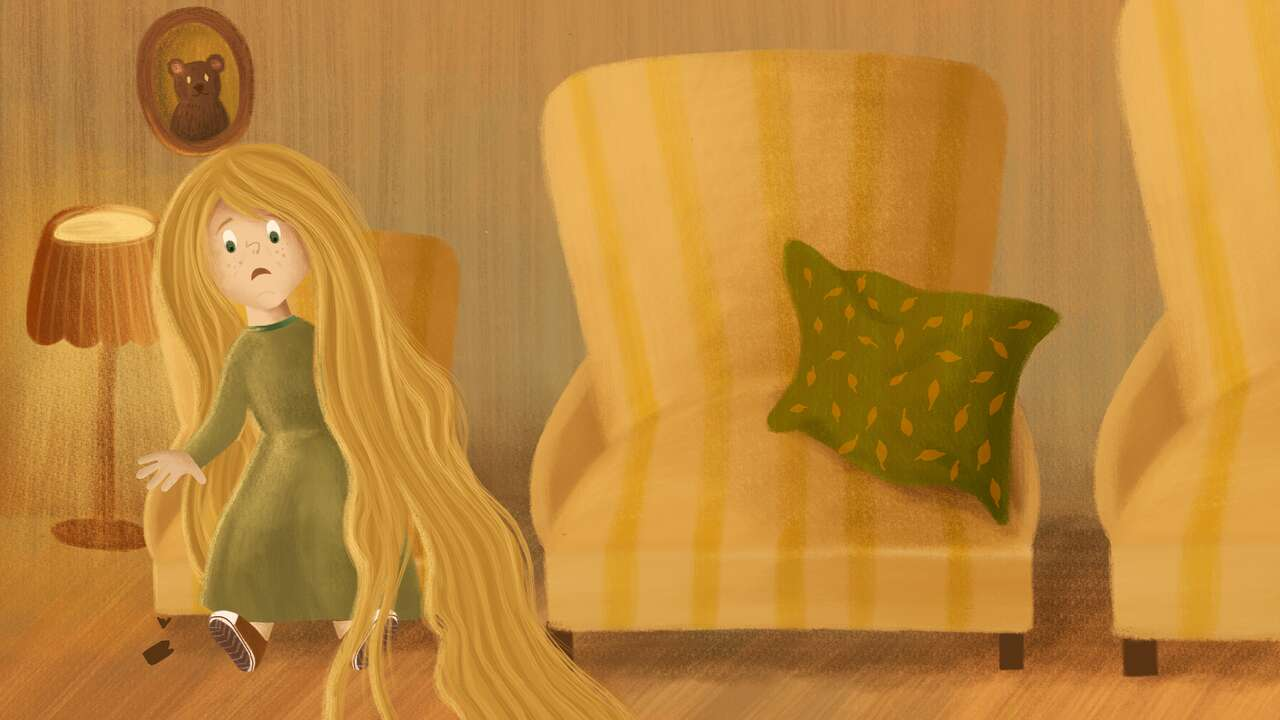
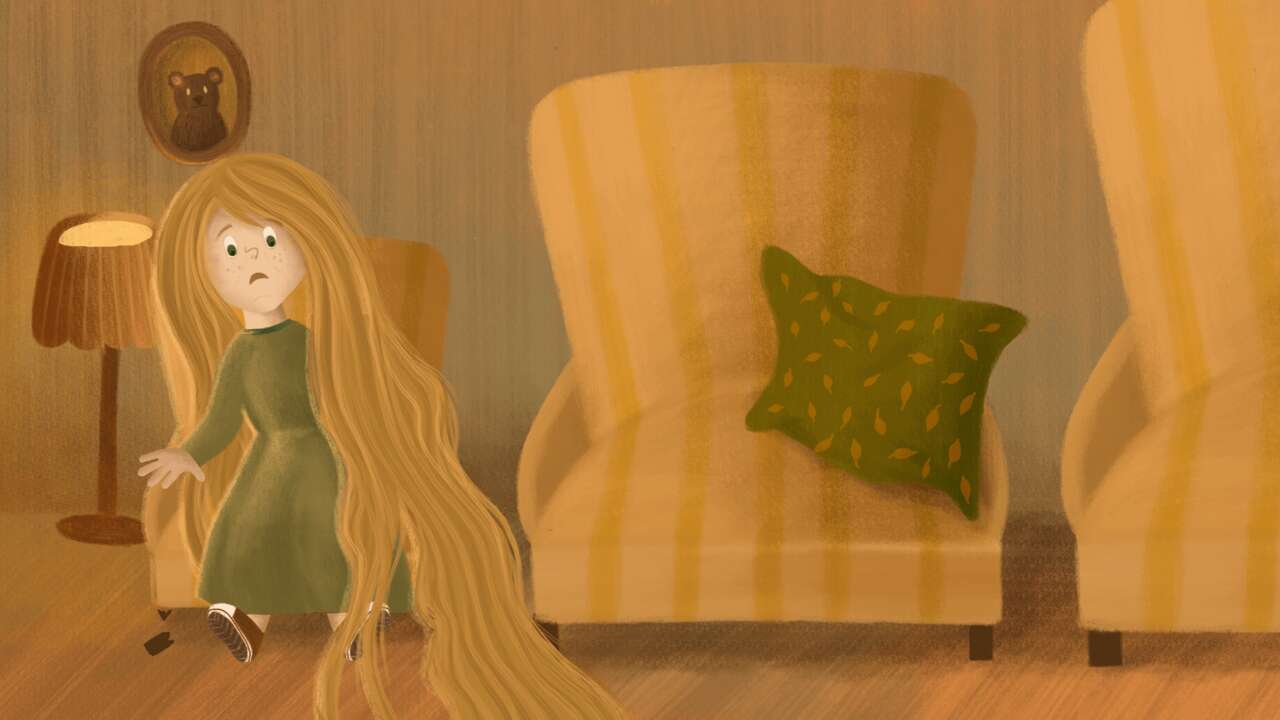
refactor(Story): animation and smooth slide transition new pictures, minor updates.

diff --git a/src/components/Story/Story.tsx b/src/components/Story/Story.tsx
@@ -3,15 +3,13 @@ import { FullScreenMaximize as FullscreenUpIcon } from '@styled-icons/fluentui-s
 import { FullScreenMinimize as FullscreenDownIcon } from '@styled-icons/fluentui-system-regular/FullScreenMinimize';
 import { Home as HomeIcon } from '@styled-icons/fluentui-system-regular/Home';
 import { TextBoxSettings as TextBoxSettingsIcon } from '@styled-icons/fluentui-system-regular/TextBoxSettings';
-import { CheveronLeft } from '@styled-icons/zondicons';
-import { CheveronRight } from '@styled-icons/zondicons';
+import { CheveronLeft, CheveronRight } from '@styled-icons/zondicons';
 import { useEffect, useState } from 'react';
 import { useSwipeable } from 'react-swipeable';
 
 import Exitbox from '@/components/Exitbox';
 import {
   FullscreenButton,
-  NextPicture,
   Pagination,
   ReturnToMainPage,
   SettingsButton,
@@ -25,7 +23,6 @@ import Toolbox from '@/components/Toolbox';
 import type { Story as StoryType } from './Story.types';
 
 export const Story: StoryType = ({ storyContent, defaultColor }) => {
-  const [upcomingSlide, setUpcomingSlide] = useState<number>(1);
   const [currentSlide, setCurrentSlide] = useState<number>(0);
   const [settingsVisibility, setSettingsVisibility] = useState<boolean>(false);
   const [exitVisibility, setExitVisibility] = useState<boolean>(false);
@@ -58,22 +55,14 @@ export const Story: StoryType = ({ storyContent, defaultColor }) => {
   }, []);
 
   const previousSlide = () => {
-    if (currentSlide === 0) {
-      return;
-    } else {
-      setCurrentSlide(prevState => prevState - 1);
-      setUpcomingSlide(prevState => prevState - 1);
+    if (currentSlide !== 0) {
+      setCurrentSlide(currentSlide - 1);
     }
   };
 
   const nextSlide = () => {
-    if (currentSlide === storyContent.length - 1) {
-      return;
-    } else {
-      setCurrentSlide(prevState => prevState + 1);
-      setTimeout(() => {
-        setUpcomingSlide(prevState => prevState + 1);
-      }, 1000);
+    if (currentSlide !== storyContent.length - 1) {
+      setCurrentSlide(currentSlide + 1);
     }
   };
 
@@ -110,28 +99,13 @@ export const Story: StoryType = ({ storyContent, defaultColor }) => {
   return (
     <>
       <Slider {...swipeHandlers} defaultColor={defaultColor}>
-        {upcomingSlide <= storyContent.length && (
-          <NextPicture
-            url={
-              upcomingSlide < storyContent.length &&
-              storyContent[upcomingSlide].picture.picSizes['720']
-            }
-            playing={false}
-            loop={true}
-            muted={true}
-            width={'100dvw'}
-            height={'100dvh'}
-          />
-        )}
-        <div>
-          <StoryPage
-            id={storyContent[currentSlide].slideId}
-            layout={storyContent[currentSlide].layout}
-            backgroundPicture={storyContent[currentSlide].picture}
-            backupPicture={storyContent[currentSlide].picture.backup}
-            text={storyContent[currentSlide].paragraphs}
-          />
-        </div>
+        <StoryPage
+          id={storyContent[currentSlide].slideId}
+          layout={storyContent[currentSlide].layout}
+          backgroundPicture={storyContent[currentSlide].picture}
+          backupPicture={storyContent[currentSlide].picture.backup}
+          text={storyContent[currentSlide].paragraphs}
+        />
       </Slider>
 
       <SliderNavigation>
@@ -145,9 +119,6 @@ export const Story: StoryType = ({ storyContent, defaultColor }) => {
               key={idx}
               onClick={() => {
                 setCurrentSlide(idx);
-                {
-                  idx < storyContent.length && setUpcomingSlide(idx + 1);
-                }
               }}
             />
           ))}

diff --git a/src/components/StoryPage/StoryPage.styled.ts b/src/components/StoryPage/StoryPage.styled.ts
@@ -53,7 +53,6 @@ export const AnimatedPicture = styled(ReactPlayer)`
 
   video {
     object-fit: cover;
-    animation: ${fadeIn} ease 0.75s;
   }
 `;
 
